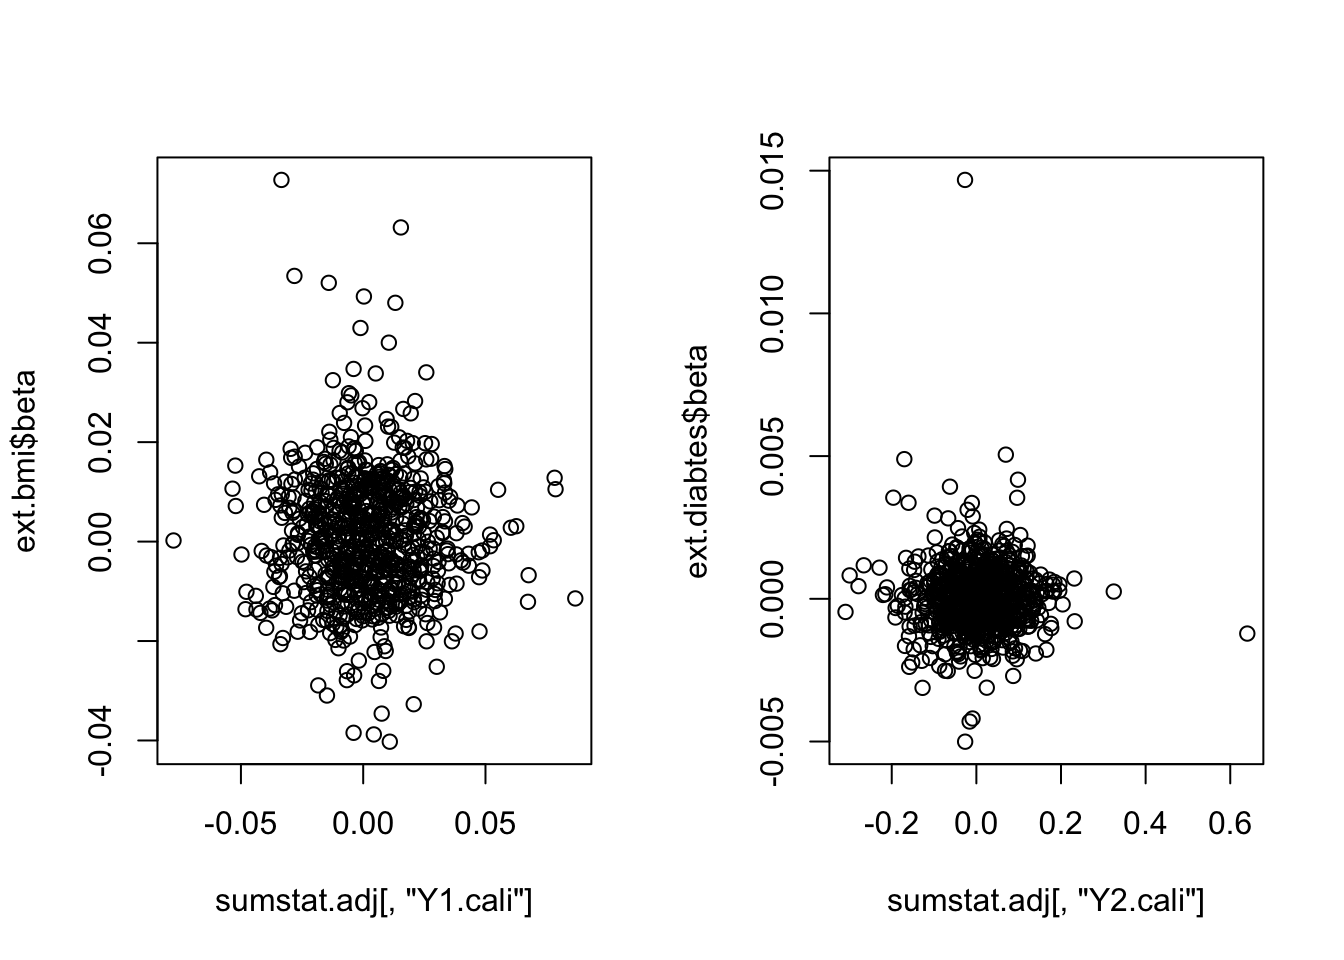
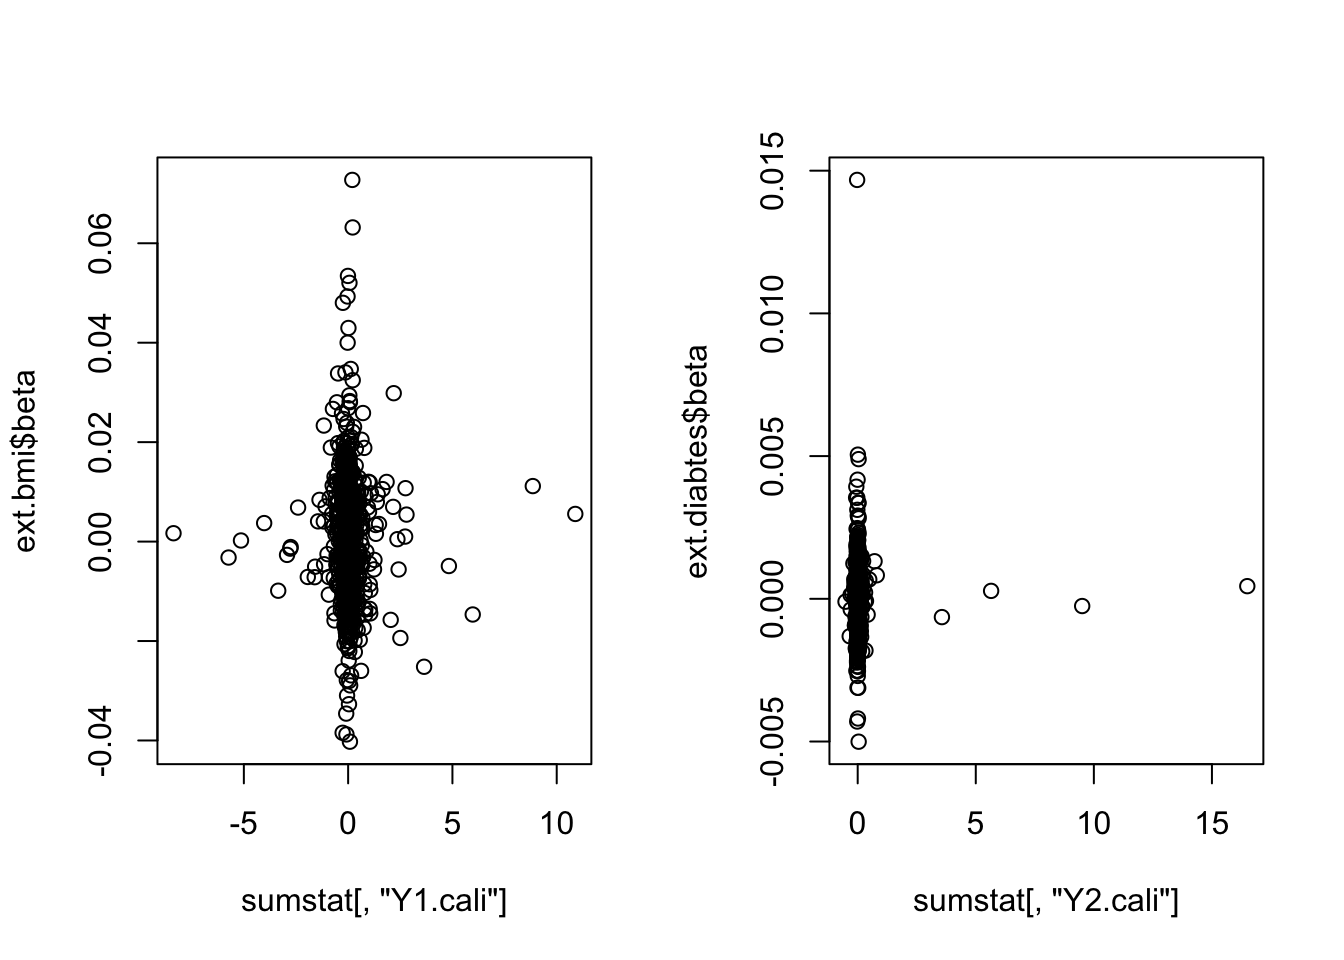
Build site.

diff --git a/docs/bmi_t2d.html b/docs/bmi_t2d.html
@@ -384,7 +384,7 @@ div.tocify {
 <div class="tab-content">
 <div id="summary" class="tab-pane fade in active">
 <p>
-<strong>Last updated:</strong> 2024-04-18
+<strong>Last updated:</strong> 2024-04-26
 </p>
 <p>
 <strong>Checks:</strong> <span class="glyphicon glyphicon-ok text-success" aria-hidden="true"></span> 7 <span class="glyphicon glyphicon-exclamation-sign text-danger" aria-hidden="true"></span> 0
@@ -475,16 +475,16 @@ This reproducible <a href="http://rmarkdown.rstudio.com">R Markdown</a> analysis
 <div class="panel panel-default">
 <div class="panel-heading">
 <p class="panel-title">
-<a data-toggle="collapse" data-parent="#workflowr-checks" href="#strongRepositoryversionstrongahrefhttpsgithubcomyunqiyang0215simulationcalibratedmrtreeb716c20f80cd9986927a5cf5065880d3803cda57targetblankb716c20a"> <span class="glyphicon glyphicon-ok text-success" aria-hidden="true"></span> <strong>Repository version:</strong> <a href="https://github.com/yunqiyang0215/simulation-calibrated-mr/tree/b716c20f80cd9986927a5cf5065880d3803cda57" target="_blank">b716c20</a> </a>
+<a data-toggle="collapse" data-parent="#workflowr-checks" href="#strongRepositoryversionstrongahrefhttpsgithubcomyunqiyang0215simulationcalibratedmrtreed168b3c866637a17c155a73bf6cc1ea660807816targetblankd168b3ca"> <span class="glyphicon glyphicon-ok text-success" aria-hidden="true"></span> <strong>Repository version:</strong> <a href="https://github.com/yunqiyang0215/simulation-calibrated-mr/tree/d168b3c866637a17c155a73bf6cc1ea660807816" target="_blank">d168b3c</a> </a>
 </p>
 </div>
[2 lines of base64/hex data omitted]
 <div class="panel-body">
 <p>
 Great! You are using Git for version control. Tracking code development and connecting the code version to the results is critical for reproducibility.
 </p>
 <p>
-The results in this page were generated with repository version <a href="https://github.com/yunqiyang0215/simulation-calibrated-mr/tree/b716c20f80cd9986927a5cf5065880d3803cda57" target="_blank">b716c20</a>. See the <em>Past versions</em> tab to see a history of the changes made to the R Markdown and HTML files.
+The results in this page were generated with repository version <a href="https://github.com/yunqiyang0215/simulation-calibrated-mr/tree/d168b3c866637a17c155a73bf6cc1ea660807816" target="_blank">d168b3c</a>. See the <em>Past versions</em> tab to see a history of the changes made to the R Markdown and HTML files.
 </p>
 <p>
 Note that you need to be careful to ensure that all relevant files for the analysis have been committed to Git prior to generating the results (you can use <code>wflow_publish</code> or <code>wflow_git_commit</code>). workflowr only checks the R Markdown file, but you know if there are other scripts or data files that it depends on. Below is the status of the Git repository when the results were generated:
@@ -539,6 +539,40 @@ Message
 Rmd
 </td>
 <td>
+<a href="https://github.com/yunqiyang0215/simulation-calibrated-mr/blob/d168b3c866637a17c155a73bf6cc1ea660807816/analysis/bmi_t2d.Rmd" target="_blank">d168b3c</a>
+</td>
+<td>
+yunqiyang0215
+</td>
+<td>
+2024-04-26
+</td>
+<td>
+wflow_publish("analysis/bmi_t2d.Rmd")
+</td>
+</tr>
+<tr>
+<td>
+html
+</td>
+<td>
+<a href="https://rawcdn.githack.com/yunqiyang0215/simulation-calibrated-mr/3d8e29d477af516bfe438aae8edf1cc794bca4c6/docs/bmi_t2d.html" target="_blank">3d8e29d</a>
+</td>
+<td>
+yunqiyang0215
+</td>
+<td>
+2024-04-18
+</td>
+<td>
+Build site.
+</td>
+</tr>
+<tr>
+<td>
+Rmd
+</td>
+<td>
 <a href="https://github.com/yunqiyang0215/simulation-calibrated-mr/blob/b716c20f80cd9986927a5cf5065880d3803cda57/analysis/bmi_t2d.Rmd" target="_blank">b716c20</a>
 </td>
 <td>
@@ -560,9 +594,113 @@ wflow_publish("analysis/bmi_t2d.Rmd")
 </div>
 <div id="description" class="section level2">
 <h2>Description:</h2>
-<p>UKB sibling data MR result of bmi on diabetes.</p>
+<p>UKB family data MR result of bmi on diabetes.</p>
 <pre class="r"><code>library(MendelianRandomization)
 library(mr.raps)</code></pre>
+<div id="trio-data" class="section level3">
+<h3>1. Trio data</h3>
+<pre class="r"><code>sumstat = readRDS(&quot;/Users/nicholeyang/Downloads/calibrated_estimator/real-data-analysis/calibration_sumstat_trio.rds&quot;)
+ext.bmi = read.csv(&quot;/Users/nicholeyang/Downloads/calibrated_estimator/real-data-analysis/external_gwas/bmi_21001_exp_bmi.csv&quot;)
+ext.diabtes = read.csv(&quot;/Users/nicholeyang/Downloads/calibrated_estimator/real-data-analysis/external_gwas/diabetes_2443_exp_bmi.csv&quot;)</code></pre>
+<pre class="r"><code>par(mfrow = c(1,2))
+plot(sumstat[, &quot;Y1.cali&quot;], ext.bmi$beta)
+plot(sumstat[, &quot;Y2.cali&quot;], ext.diabtes$beta)</code></pre>
+<p><img src="figure/bmi_t2d.Rmd/unnamed-chunk-3-1.png" width="672" style="display: block; margin: auto;" /></p>
+<p>
+<button type="button" class="btn btn-default btn-xs btn-workflowr btn-workflowr-fig" data-toggle="collapse" data-target="#fig-unnamed-chunk-3-1">
+Past versions of unnamed-chunk-3-1.png
+</button>
+</p>
+<div id="fig-unnamed-chunk-3-1" class="collapse">
+<div class="table-responsive">
+<table class="table table-condensed table-hover">
+<thead>
+<tr>
+<th>
+Version
+</th>
+<th>
+Author
+</th>
+<th>
+Date
+</th>
+</tr>
+</thead>
+<tbody>
+<tr>
+<td>
+<a href="https://github.com/yunqiyang0215/simulation-calibrated-mr/blob/3d8e29d477af516bfe438aae8edf1cc794bca4c6/docs/figure/bmi_t2d.Rmd/unnamed-chunk-3-1.png" target="_blank">3d8e29d</a>
+</td>
+<td>
+yunqiyang0215
+</td>
+<td>
+2024-04-18
+</td>
+</tr>
+</tbody>
+</table>
+</div>
+</div>
+<pre class="r"><code># Remove NAs
+indx.na = apply(sumstat, 1, function(x) sum(is.na(x))!= 0)
+sumstat = sumstat[-indx.na, ]</code></pre>
+<div id="calibration-result" class="section level4">
+<h4>Calibration result</h4>
+<pre class="r"><code>par(mfrow = c(1,2))
+vr.Y1 = (sumstat[, &quot;Y1.raw.var&quot;] - sumstat[, &quot;Y1.cali.var&quot;])/sumstat[, &quot;Y1.raw.var&quot;]
+vr.Y2 = (sumstat[, &quot;Y2.raw.var&quot;] - sumstat[, &quot;Y2.cali.var&quot;])/sumstat[, &quot;Y2.raw.var&quot;]
+hist(vr.Y1, main = &quot;variance reduction for exposure&quot;, xlab = &quot;&quot;)
+hist(vr.Y2, main = &quot;variance reduction for outcome&quot;, xlab = &quot;&quot;)</code></pre>
+<p><img src="figure/bmi_t2d.Rmd/unnamed-chunk-5-1.png" width="672" style="display: block; margin: auto;" /></p>
+<p>
+<button type="button" class="btn btn-default btn-xs btn-workflowr btn-workflowr-fig" data-toggle="collapse" data-target="#fig-unnamed-chunk-5-1">
+Past versions of unnamed-chunk-5-1.png
+</button>
+</p>
+<div id="fig-unnamed-chunk-5-1" class="collapse">
+<div class="table-responsive">
+<table class="table table-condensed table-hover">
+<thead>
+<tr>
+<th>
+Version
+</th>
+<th>
+Author
+</th>
+<th>
+Date
+</th>
+</tr>
+</thead>
+<tbody>
+<tr>
+<td>
+<a href="https://github.com/yunqiyang0215/simulation-calibrated-mr/blob/3d8e29d477af516bfe438aae8edf1cc794bca4c6/docs/figure/bmi_t2d.Rmd/unnamed-chunk-5-1.png" target="_blank">3d8e29d</a>
+</td>
+<td>
+yunqiyang0215
+</td>
+<td>
+2024-04-18
+</td>
+</tr>
+</tbody>
+</table>
+</div>
+</div>
+</div>
+<div id="mr-result" class="section level4">
+<h4>MR result</h4>
+</div>
+<div id="ivw" class="section level4">
+<h4>2.1 IVW</h4>
+</div>
+</div>
+<div id="sibling-data" class="section level3">
+<h3>2. Sibling data</h3>
 <pre class="r"><code>res = readRDS(&quot;/Users/nicholeyang/Downloads/calibrated_estimator/real-data-analysis/calibration_sumstat.rds&quot;)
 ext.bmi = read.csv(&quot;/Users/nicholeyang/Downloads/calibrated_estimator/real-data-analysis/external_gwas/bmi_21001_exp_bmi.csv&quot;)
 ext.diabtes = read.csv(&quot;/Users/nicholeyang/Downloads/calibrated_estimator/real-data-analysis/external_gwas/diabetes_2443_exp_bmi.csv&quot;)
@@ -571,25 +709,26 @@ sumstat = res[[2]]</code></pre>
 <pre class="r"><code>par(mfrow = c(1,2))
 plot(sumstat.adj[, &quot;Y1.cali&quot;], ext.bmi$beta)
 plot(sumstat.adj[, &quot;Y2.cali&quot;], ext.diabtes$beta)</code></pre>
-<p><img src="figure/bmi_t2d.Rmd/unnamed-chunk-3-1.png" width="672" style="display: block; margin: auto;" /></p>
+<p><img src="figure/bmi_t2d.Rmd/unnamed-chunk-10-1.png" width="672" style="display: block; margin: auto;" /></p>
 <pre class="r"><code># Remove NAs
 indx.na = apply(sumstat.adj, 1, function(x) sum(is.na(x))!= 0)
 sumstat.adj = sumstat.adj[-indx.na, ]
 
 indx.na = apply(sumstat, 1, function(x) sum(is.na(x))!= 0)
 sumstat = sumstat[-indx.na, ]</code></pre>
-<div id="calibration-result" class="section level3">
+</div>
+<div id="calibration-result-1" class="section level3">
 <h3>1. Calibration result</h3>
 <pre class="r"><code>par(mfrow = c(1,2))
 vr.Y1 = (sumstat.adj[, &quot;Y1.raw.var&quot;] - sumstat.adj[, &quot;Y1.cali.var&quot;])/sumstat.adj[, &quot;Y1.raw.var&quot;]
 vr.Y2 = (sumstat.adj[, &quot;Y2.raw.var&quot;] - sumstat.adj[, &quot;Y2.cali.var&quot;])/sumstat.adj[, &quot;Y2.raw.var&quot;]
 hist(vr.Y1, main = &quot;variance reduction for exposure&quot;, xlab = &quot;&quot;)
 hist(vr.Y2, main = &quot;variance reduction for outcome&quot;, xlab = &quot;&quot;)</code></pre>
-<p><img src="figure/bmi_t2d.Rmd/unnamed-chunk-5-1.png" width="672" style="display: block; margin: auto;" /></p>
+<p><img src="figure/bmi_t2d.Rmd/unnamed-chunk-12-1.png" width="672" style="display: block; margin: auto;" /></p>
 </div>
-<div id="mr-result" class="section level3">
+<div id="mr-result-1" class="section level3">
 <h3>2. MR result</h3>
-<div id="ivw" class="section level4">
+<div id="ivw-1" class="section level4">
 <h4>2.1 IVW</h4>
 <pre class="r"><code>MRInput &lt;- mr_input(bx = sumstat.adj[, &quot;Y1.cali&quot;],
                          bxse = sqrt(sumstat.adj[, &quot;Y1.cali.var&quot;]),
@@ -629,7 +768,7 @@ axis(1, at=1:3, labels=c(&quot;Cali&quot;, &quot;Uncali&quot;, &quot;ext&quot;))
 arrows(x0=1:3, y0=data$estimate - 1.96*data$stderr, 
        x1=1:3, y1=data$estimate + 1.96*data$stderr, 
        code=3, angle=90, length=0.1)</code></pre>
-<p><img src="figure/bmi_t2d.Rmd/unnamed-chunk-8-1.png" width="672" style="display: block; margin: auto;" /></p>
+<p><img src="figure/bmi_t2d.Rmd/unnamed-chunk-15-1.png" width="672" style="display: block; margin: auto;" /></p>
 <br>
 <p>
 <button type="button" class="btn btn-default btn-workflowr btn-workflowr-sessioninfo" data-toggle="collapse" data-target="#workflowr-sessioninfo" style="display: block;">

diff --git a/docs/site_libs/navigation-1.1/codefolding.js b/docs/site_libs/navigation-1.1/codefolding.js
@@ -19,8 +19,6 @@ window.initializeCodeFolding = function(show) {
   // select all R code blocks
   var rCodeBlocks = $('pre.r, pre.python, pre.bash, pre.sql, pre.cpp, pre.stan, pre.julia, pre.foldable');
   rCodeBlocks.each(function() {
-    // skip if the block has fold-none class
-    if ($(this).hasClass('fold-none')) return;
 
     // create a collapsable div to wrap the code in
     var div = $('<div class="collapse r-code-collapse"></div>');
@@ -36,9 +34,7 @@ window.initializeCodeFolding = function(show) {
     showCodeButton.append(showCodeText);
     showCodeButton
         .attr('data-toggle', 'collapse')
-        .attr('data-bs-toggle', 'collapse') // BS5
         .attr('data-target', '#' + id)
-        .attr('data-bs-target', '#' + id)   // BS5
         .attr('aria-expanded', showThis)
         .attr('aria-controls', id);
 
